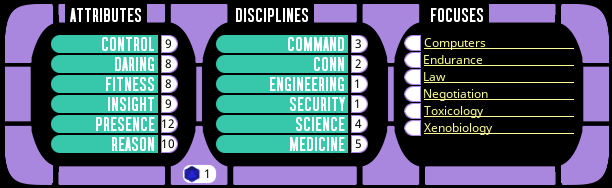
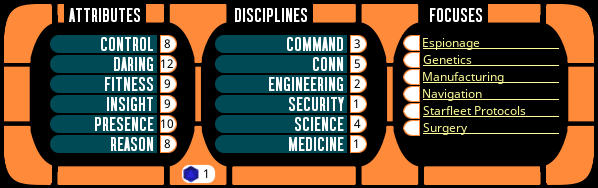
Doc work

diff --git a/record_docs/charsheet_doc.md b/record_docs/charsheet_doc.md
@@ -1,10 +1,18 @@
 ## Character Sheet Usage
+
+This is an example of a character sheet in this extension:
+
+![Full Character Sheet Example](../images/charsheet_full_example.png)
+
 Most of the basic functionality of Character Sheet controls are going to be fairly obvious to users. 
 However, there are some elements of sheet functionality that warrant additional explanation.
 
-### Making Skill Checks
+### Applying determination 
 
-This is the skill rolling area of the character sheet: 
+The determination counter works like other counter controls in Fantasy Grounds, but the blue d20 icon next to the counter 
+will spend a point of determination for an automatic 1 added to the next skill check.
+
+### Making Skill Checks
 
 ![Skill Roll Pane](../images/charsheet_roll_pane.png)
 
@@ -12,5 +20,48 @@ To roll a test, just select the attribute and discipline by clicking the fields 
 by ticking the box next to the focus name. The roll widget in between the Attribute and Discipline lists can be used to 
 set a roll difficulty (default is 1) and then you can either double-click or click and drag the blue d20 icon to perform a standard 2d20 roll.
 
+The roll widget defaults 2d20 but you can get a single d20 by either dragging/clicking with the middle mouse button, or 
+holding CTRL while dragging/clicking on the roll widget.  
+
 Additionally, once a score is selected, you can also just roll from the normal dice tray and the 
 selected attribute, discipline and focus will be applied.
+
+### Combat Tab
+
+![Combat Tab](../images/charsheet_combat_tab.png)
+
+The combat tab has a number of convenience controls. The "Attacks" pane can be used to define regularly used attacks by 
+selecting a weapon from the combobox. If the character has an applicable focus that would apply to those attacks, that can 
+be selected in the second combobox.
+
+Similarly, the "Recover" and "First Aid" controls will perform the appropriate skill checks to recover from an avoided injury 
+or perform first aid to stabilize an injured character. They also allow a linked focus to be set.
+
+### Service Record Tab
+
+![Service Record Tab](../images/service_record_tab_1.png)
+
+The Service Record tab is where players can keep track of milestones, reputation changes, and long-term research items that 
+may not be linked to any specific scene/episode and may require multiple sessions of play to resolve.
+
+When awarding Milestones they can just be added to the "Saved Milestones" pane, the type is a multistate button, so just click 
+on the type control to change between normal, spotlight and arc milestones. The episode column will autopopulate with the name of 
+the current episode (if one is set in the campaign). If not, it can be edited.
+
+Players can then spend the milestones by clicking the green + icon. Doing so will bring up a popup where they can select 
+how they want to apply the milestone. For example:
+
+![Spending a Normal Milestone](../images/service_record_milestone_spend_popup.png)
+
+After using the milestone in this way, the milestone will move below to the service history with an indication of what it was used for:
+
+![After spending a milestone](../images/service_record_tab_2.png)
+
+You can also add notes of Commendations or Reprimands to the Service History to note changes to character reputation per 
+the reputation rules.
+
+### Inventory and Notes Tabs
+
+Nothing particularly unique about these two.
+
+![](../images/crewmates_tab.png)
